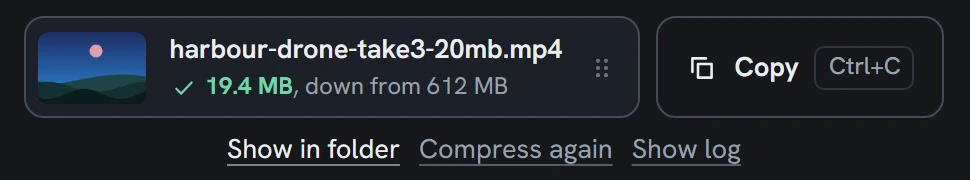
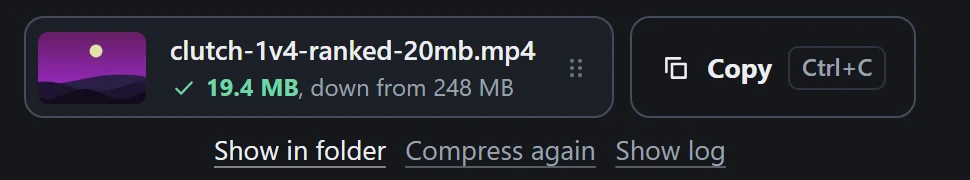
Site: one game clip from plan to Discord in the download section, with Copy as its third step, the watch card marked as the desktop app's, and the mock's demo paths on Windows

diff --git a/src/lib/mock.ts b/src/lib/mock.ts
@@ -38,6 +38,12 @@ let settings: Settings = {
   },
 };
 
+// The demo files live where Windows keeps videos: the site's screenshots show
+// these paths, and the folder watch is Windows's.
+const VIDEOS = String.raw`C:\Users\demo\Videos`;
+/** A path in `folder`, the way Windows writes it. */
+const inFolder = (folder: string, name: string) => `${folder}\\${name}`;
+
 // `?watch` sets up a watch on a demo clip folder that finds a clip now and
 // then and puts it on the bench; `?watch=compress` compresses it straight
 // away instead, `?watch=pile` adds a pile that arrived while the app was
@@ -52,7 +58,7 @@ let noticeClicked = false;
 const watching = { inProgress: 0, done: 0, failed: 0, benched: 0, waiting: WATCH === "pile" ? 12 : 0 };
 if (WATCH !== null) {
   const compress = WATCH === "compress" || WATCH === "pile" || WATCH === "notice";
-  settings.watch = { ...settings.watch, enabled: true, folder: "/Users/demo/Videos/NVIDIA", recursive: true, compress };
+  settings.watch = { ...settings.watch, enabled: true, folder: inFolder(VIDEOS, "NVIDIA"), recursive: true, compress };
 }
 
 interface Demo {
@@ -254,7 +260,7 @@ function simulate(id: string, job: CompressRequest, origin: "manual" | "watch" =
       const replace = settings.outputMode === "replace";
       const name = job.outputName?.trim() || (replace ? stem : `${stem}-${job.options.targetMb}mb`);
       const result: JobResult = {
-        output: `/Users/demo/Videos/${name}.${job.options.container}`,
+        output: inFolder(VIDEOS, `${name}.${job.options.container}`),
         sizeBytes: Math.round(plan.expectedBytes * 0.972), originalBytes: demo.info.sizeBytes, duration: plan.duration,
         width: plan.width, height: plan.height, videoKbps: plan.videoKbps, audioKbps: plan.audioKbps, encoder,
         hardware: encoder.endsWith("nvenc"), fellBackFrom: null, attempts: 1, elapsedSeconds: seconds,
@@ -281,13 +287,14 @@ function simulate(id: string, job: CompressRequest, origin: "manual" | "watch" =
   timers.set(id, timer);
 }
 
-/** The demo watch finds a clip a few seconds in, then one every 20 seconds. */
+/** The demo watch finds a clip a few seconds in, then one every 20 seconds,
+ * the game clip first, as an NVIDIA folder would. */
 function findClips() {
-  let next = 0;
+  let next = DEMOS.findIndex((demo) => demo.name.startsWith("clutch"));
   const find = () => {
     if (settings.watch.enabled && settings.watch.folder && !watching.waiting) {
       const demo = DEMOS[next++ % DEMOS.length];
-      const path = `${settings.watch.folder}/${demo.name}`;
+      const path = inFolder(settings.watch.folder, demo.name);
       added.set(path, demo);
       if (!settings.watch.compress) {
         watching.benched++;
@@ -305,7 +312,7 @@ function findClips() {
 }
 if (WATCH !== null) findClips();
 
-const DEMO_FFMPEG: FfmpegStatus = { found: true, version: "ffmpeg version 7.1 (demo)", folder: "/usr/local/bin", problem: null };
+const DEMO_FFMPEG: FfmpegStatus = { found: true, version: "ffmpeg version 7.1 (demo)", folder: String.raw`C:\Users\demo\scoop\shims`, problem: null };
 let noFfmpeg = new URLSearchParams(location.search).has("noffmpeg");
 // `?noffmpeg=broken`: an FFmpeg is there but won't start.
 const NO_FFMPEG: FfmpegStatus =
@@ -353,7 +360,7 @@ export const mockBackend: Backend = {
     // `?clips` opens the demo clips at startup, so a headless screenshot can
     // show the bench without clicking.
     openedWith: new URLSearchParams(location.search).has("clips")
-      ? DEMOS.slice(0, 3).map((demo) => `/Users/demo/Videos/${demo.name}`)
+      ? DEMOS.slice(0, 3).map((demo) => inFolder(VIDEOS, demo.name))
       : [],
   }),
   ffmpegStatus: async () => (noFfmpeg ? NO_FFMPEG : DEMO_FFMPEG),
@@ -372,18 +379,18 @@ export const mockBackend: Backend = {
     onProgress({ stage: "installing", fraction: null, received: size });
     await new Promise((resolve) => setTimeout(resolve, 600));
     noFfmpeg = false;
-    return { ffmpeg: DEMO_FFMPEG, notice: "/Users/demo/Library/Application Support/io.github.y4dd.sub20/ffmpeg/FFMPEG.txt" };
+    return { ffmpeg: DEMO_FFMPEG, notice: String.raw`C:\Users\demo\AppData\Local\io.github.y4dd.sub20\ffmpeg\FFMPEG.txt` };
   },
   // A folder (a path with no extension) holds the demo clips.
   findVideos: async (paths) => ({
-    files: paths.flatMap((path) => (/\.[a-z0-9]+$/i.test(path) ? [path] : DEMOS.map((demo) => `${path}/${demo.name}`))),
+    files: paths.flatMap((path) => (/\.[a-z0-9]+$/i.test(path) ? [path] : DEMOS.map((demo) => inFolder(path, demo.name)))),
     capped: false,
   }),
   addVideos: async (paths): Promise<Added[]> => {
     await new Promise((resolve) => setTimeout(resolve, 250));
     return paths.map((path) => {
       const demo = DEMOS.find((d) => path.endsWith(d.name));
-      if (!demo) return { path, name: path.split("/").pop()!, info: null, playUrl: null, error: "This file has no video track." };
+      if (!demo) return { path, name: path.split(/[\\/]/).pop()!, info: null, playUrl: null, error: "This file has no video track." };
       added.set(path, demo);
       return { path, name: demo.name, info: demo.info, playUrl: null, error: null };
     });
@@ -452,7 +459,7 @@ export const mockBackend: Backend = {
     if (compress) {
       for (let i = 0; i < Math.min(pile, 3); i++) {
         const demo = DEMOS[i % DEMOS.length];
-        const path = `${settings.watch.folder}/${demo.name}`;
+        const path = inFolder(settings.watch.folder!, demo.name);
         added.set(path, demo);
         const id = `demo-${nextId++}`;
         window.setTimeout(() => simulate(id, { path, trim: null, options: settings.lastOptions ?? DEFAULT_OPTIONS, outputName: null }, "watch"), i * 900);
@@ -461,8 +468,8 @@ export const mockBackend: Backend = {
     return mockBackend.watchStatus();
   },
   clipFolders: async () => [
-    { app: "NVIDIA app", path: "/Users/demo/Videos/NVIDIA", recursive: true },
-    { app: "Xbox Game Bar", path: "/Users/demo/Videos/Captures", recursive: false },
+    { app: "NVIDIA app", path: inFolder(VIDEOS, "NVIDIA"), recursive: true },
+    { app: "Xbox Game Bar", path: inFolder(VIDEOS, "Captures"), recursive: false },
   ],
   reveal: async () => {},
   openFile: async () => {},
@@ -490,7 +497,7 @@ export const mockBackend: Backend = {
     let clean = name.trim().replace(/[<>:"/\\|?*]/g, "");
     if (clean.toLowerCase().endsWith(extension.toLowerCase())) clean = clean.slice(0, -extension.length);
     if (!clean) throw "That name has no letters a file name can use.";
-    const renamed = path.slice(0, path.lastIndexOf("/") + 1) + clean + extension;
+    const renamed = path.slice(0, Math.max(path.lastIndexOf("/"), path.lastIndexOf("\\")) + 1) + clean + extension;
     const facts = made.get(path);
     if (facts) {
       made.delete(path);
@@ -506,7 +513,7 @@ export const mockBackend: Backend = {
     const text = [
       "**Sub20** 0.1.0 (demo)",
       "**System** a browser",
-      "**FFmpeg** ffmpeg version 7.1 (demo), in /usr/local/bin",
+      `**FFmpeg** ffmpeg version 7.1 (demo), in ${DEMO_FFMPEG.folder}`,
       ...(log.length ? ["", "**FFmpeg log of the last job**", "```", ...log, "```"] : []),
     ].join("\n");
     // A browser refuses the clipboard without focus; the demo shows the text instead.
@@ -515,9 +522,9 @@ export const mockBackend: Backend = {
   dragOut: async () => {},
   pickVideos: async () => {
     const fresh = DEMOS.filter((demo) => ![...added.values()].includes(demo));
-    return (fresh.length ? fresh : DEMOS).slice(0, 3).map((demo) => `/Users/demo/Videos/${demo.name}`);
+    return (fresh.length ? fresh : DEMOS).slice(0, 3).map((demo) => inFolder(VIDEOS, demo.name));
   },
-  pickFolder: async () => "/Users/demo/Videos/Compressed",
+  pickFolder: async () => inFolder(VIDEOS, "Compressed"),
   onJob: async (handler) => {
     listeners.add(handler);
     return () => listeners.delete(handler);

diff --git a/site/src/styles/site.css b/site/src/styles/site.css
@@ -142,18 +142,20 @@
 .downloads__links { display: grid; justify-items: start; }
 .downloads__after { display: flex; gap: var(--s-3); flex-wrap: wrap; align-items: baseline; }
 .downloads__after a:not(.link) { color: var(--p-ink); }
-/* Beside it, what the download is for, before and after: the plan row's size and verdict, then the finished
-   file, as tall as they are (no --ratio). Each is a crop of a screenshot (--sw wide) at --cx, --cy, --cw × --ch,
-   in the source's pixels: the plan from window.webp (2880 × 1080), the file chip alone from done.webp
-   (970 × 180), so no Copy, Ctrl+C or Leave out shows. The chip is drawn narrower, so its words come out
-   at about the plan's size, as they are in the app. */
+/* Beside it, what the download is for, one game clip from plan to Discord: the plan row's size and verdict,
+   the finished file, then Copy, as tall as they are (no --ratio). Each is a crop of a screenshot (--sw wide)
+   at --cx, --cy, --cw × --ch, in the source's pixels: the plan row from plan.webp (800 × 72), then from
+   done.webp (970 × 180) the file chip alone and Copy with the chip's end fading in beside it, so it reads
+   as a piece of the window, not a button on the page. The two from done.webp are drawn at one scale (their
+   widths are 82% × cw / 626), so their words come out at about the plan's size, as they are in the app.
+   The steps' words are body size, and the finished size in them is ink. */
 .frame.downloads__frame { background: #15171c; --ratio: 0px; padding: var(--s-6); justify-content: flex-start; }
 .frame.downloads__frame > .downloads__story { margin: 0; padding: 0; list-style: none; display: grid; gap: var(--s-6); width: 100%; max-width: 34rem; }
 .downloads__story > li { display: grid; gap: var(--s-3); }
-.downloads__story p { margin: 0; font-size: var(--t-small); color: var(--p-muted); text-wrap: balance; }
+.downloads__story p { margin: 0; font-size: var(--t-body); color: var(--p-muted); text-wrap: balance; }
 .downloads__crop { position: relative; width: 100%; aspect-ratio: var(--cw) / var(--ch); overflow: hidden; pointer-events: none; user-select: none; }
-.downloads__crop--plan { --sw: 2880; --cx: 1322; --cy: 800; --cw: 806; --ch: 72; }
-.downloads__crop--done { --sw: 970; --cx: 20; --cy: 12; --cw: 626; --ch: 110; width: 82%; }
+.downloads__crop--plan { --sw: 800; --cx: 0; --cy: 0; --cw: 800; --ch: 72; }
+.downloads__crop--done { --sw: 970; --cx: 20; --cy: 12; --cw: 598; --ch: 110; width: 78%; }
 .downloads__crop img { position: absolute; max-width: none; height: auto; width: calc(var(--sw) / var(--cw) * 100%); left: calc(var(--cx) / var(--cw) * -100%); top: calc(var(--cy) / var(--ch) * -100%); }
 
 /* The five questions fit one screen at 1440x900 (723px of the 708 the kit's screen holds at the kit's 24px
@@ -190,20 +192,20 @@
 }
 @media (max-width: 639px) {
   /* a phone: no frame, so the two sit in the section's own column at its full width (the app's ground is
-     the page's), and the words stay readable: the plan from the narrow window (window-narrow.webp,
-     1120 × 1200) from 1080p on, and the file's name and size alone, on the chip's own ground and corners */
+     the page's), and the words stay readable: the plan from 1440p on, the file's name and size alone, on
+     the chip's own ground and corners, and Copy at the same scale as the name */
   .frame.downloads__frame { padding: 0; border: 0; border-radius: 0; background: none; }
-  .downloads__crop--plan { --sw: 1120; --cx: 326; --cy: 850; --cw: 640; --ch: 64; }
-  .downloads__crop--done { --cx: 154; --cy: 25; --cw: 432; --ch: 86; width: 88%; background: #1c2028; border-radius: 10px; border: 1px solid color-mix(in srgb, var(--p-ink) 12%, transparent); }
+  .downloads__crop--plan { --cx: 124; --cw: 676; }
+  .downloads__crop--done { --cx: 154; --cy: 25; --cw: 406; --ch: 86; width: 83%; background: #1c2028; border-radius: 10px; border: 1px solid color-mix(in srgb, var(--p-ink) 12%, transparent); }
 }
 /* Stacked (below 1024px), the before and after comes last, so the way in (the button, or Lite) runs
    straight on to the other files. */
 @media (max-width: 1023px) { .downloads__frame { order: 1; } }
-/* From 1024 to 1279px the frame beside the words is narrow: the plan from 1080p on, and the chip wider,
-   so both stay at about the app's own size. */
+/* From 1024 to 1279px the frame beside the words is narrow: the plan from 1440p on, and the chip and Copy
+   wider, so all three stay at about the app's own size. */
 @media (min-width: 1024px) and (max-width: 1279px) {
-  .downloads__crop--plan { --cx: 1492; --cw: 636; }
-  .downloads__crop--done { width: 94%; }
+  .downloads__crop--plan { --cx: 124; --cw: 676; }
+  .downloads__crop--done { width: 90%; }
 }
 
 /* Document pages (guides, download, compare, privacy, changelog): sections
@@ -429,6 +431,14 @@ a:focus-visible .dl-mark { transform: translateY(2px); }
 /* Round 3: phones, tablets and Macs. */
 
 /* Round 3: the payoff, before and after. */
+/* The third step, Copy: a picture of the app's button, never a control on the page (no pointer, no hover,
+   nothing to tab to), its left edge fading through the end of the file chip. The finished size is said
+   in the step's words, in ink, since the chip draws it small. */
+.downloads__crop--copy { --sw: 970; --cx: 420; --cy: 12; --cw: 505; --ch: 110; width: 66%; cursor: default;
+  -webkit-mask: linear-gradient(to right, transparent 4%, #000 42%); mask: linear-gradient(to right, transparent 4%, #000 42%); }
+.downloads__story strong { color: var(--p-ink); font-weight: 600; }
+@media (min-width: 1024px) and (max-width: 1279px) { .downloads__crop--copy { width: 76%; } }
+@media (max-width: 639px) { .downloads__crop--copy { width: 100%; } }
 
 /* Round 3: Windows's warning. */
 
